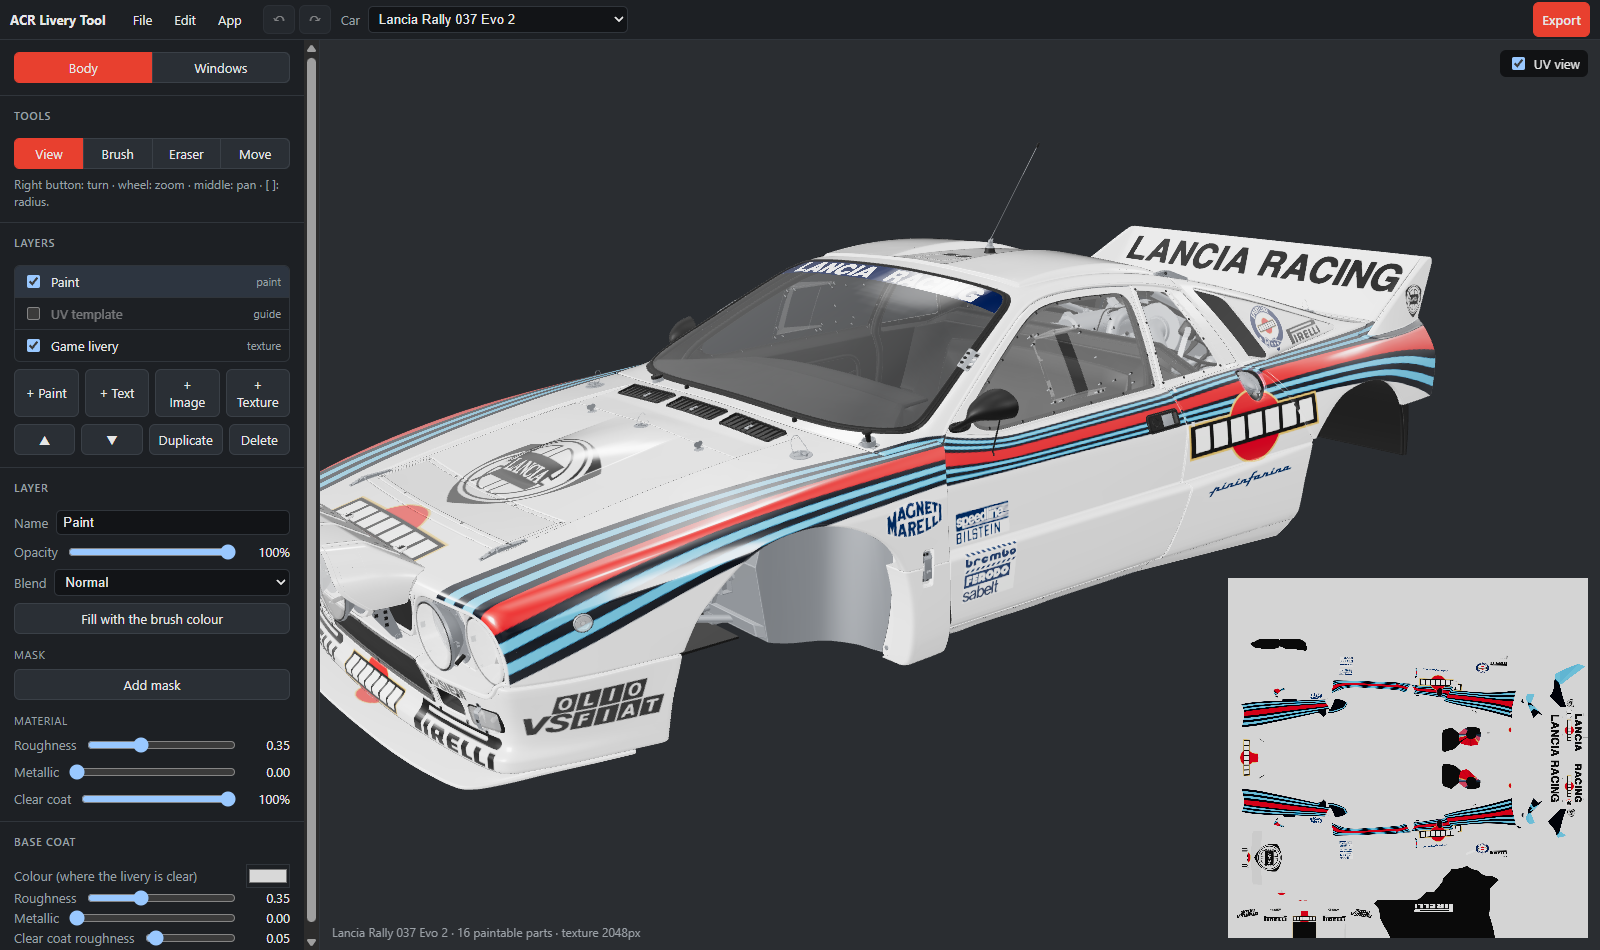
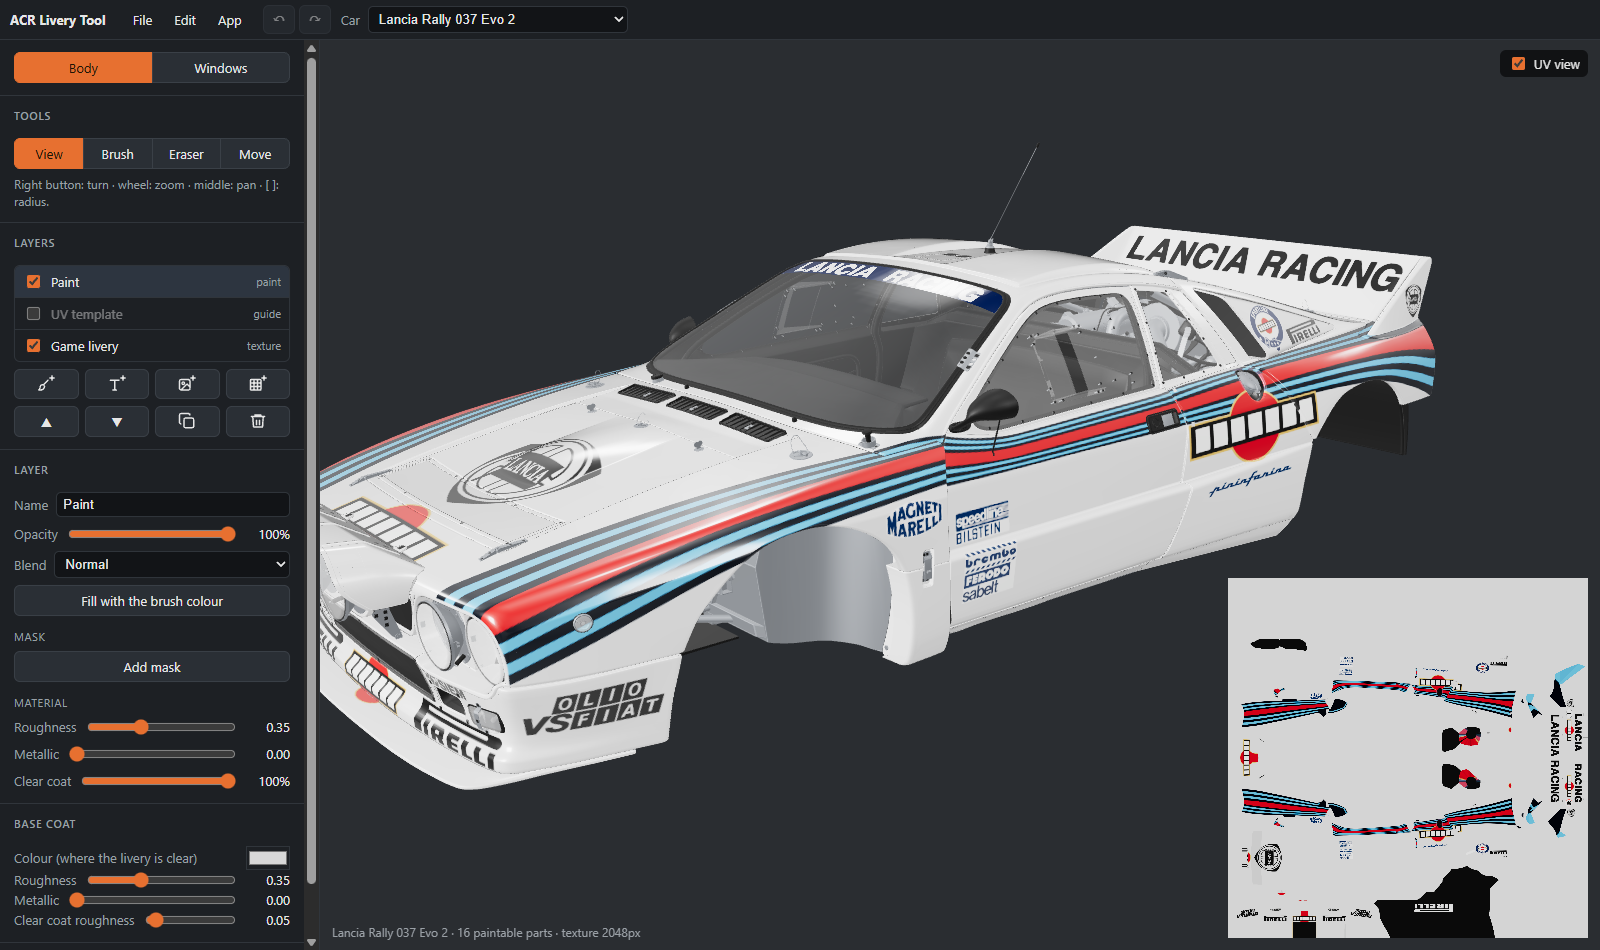
Docs for 0.4.0

diff --git a/README.md b/README.md
@@ -30,8 +30,9 @@ Requirements: Windows 10 or 11 (64-bit) and Assetto Corsa Rally installed throug
 ## First start: preparing the cars
 
 The app ships **no part of the game**. On first start it reads the cars from your own installation and keeps
-them in `%LOCALAPPDATA%\acr-livery-tool\cars` (about 5 minutes and 700 MB). Do it again after a game update
-from the car list in the top bar, *Prepare the cars again from the game*.
+them in `%LOCALAPPDATA%\acr-livery-tool\cars` (about 5 minutes and 700 MB). It finds the game in your Steam
+libraries; if it does not, *Choose the game folder…* picks it by hand. Do it again after a game update from the
+car list in the top bar, *Prepare the cars again from the game*.
 
 ## Using an exported livery
 
@@ -57,8 +58,10 @@ The app sends nothing about you anywhere. It connects only to:
 
 The ACRK Challenge links (*App* menu, after an export) only open that page in your browser when you click them.
 
-It reads the game's files where Steam installed them and writes only to its own folder, to the liveries
-folder above and to the project files you choose to save.
+It reads the game's files where Steam installed them, or in the folder you choose. It writes only to its own
+folders (`%LOCALAPPDATA%\acr-livery-tool` for the cars; `%APPDATA%\com.acrliverytool.app` and
+`%LOCALAPPDATA%\com.acrliverytool.app` for its settings: language, last car, game folder, the window's place), to
+the liveries folder above and to the project files you choose to save.
 
 ## Uninstall
 

diff --git a/README.it.md b/README.it.md
@@ -31,7 +31,8 @@ Serve Windows 10 o 11 (64 bit) e Assetto Corsa Rally installato con Steam.
 ## Primo avvio: preparare le auto
 
 L'app **non contiene niente del gioco**. Al primo avvio legge le auto dalla tua installazione e le tiene in
-`%LOCALAPPDATA%\acr-livery-tool\cars` (circa 5 minuti e 700 MB). Dopo un aggiornamento del gioco rifallo
+`%LOCALAPPDATA%\acr-livery-tool\cars` (circa 5 minuti e 700 MB). Trova il gioco nelle tue librerie di Steam;
+se non lo trova, *Scegli la cartella del gioco…* lo indica a mano. Dopo un aggiornamento del gioco rifallo
 dall'elenco delle auto nella barra in alto, *Prepara di nuovo le auto dal gioco*.
 
 ## Usare una livrea esportata
@@ -59,8 +60,10 @@ L'app non invia niente che ti riguardi. Si collega solo a:
 I collegamenti ad ACRK Challenge (menu *App*, dopo un'esportazione) aprono quella pagina nel browser solo quando ci
 clicchi.
 
-Legge i file del gioco dove li ha installati Steam e scrive solo nella sua cartella, nella cartella delle
-livree indicata sopra e nei file di progetto che scegli di salvare.
+Legge i file del gioco dove li ha installati Steam, o nella cartella che scegli. Scrive solo nelle sue cartelle
+(`%LOCALAPPDATA%\acr-livery-tool` per le auto; `%APPDATA%\com.acrliverytool.app` e
+`%LOCALAPPDATA%\com.acrliverytool.app` per le impostazioni: lingua, ultima auto, cartella del gioco, posizione
+della finestra), nella cartella delle livree indicata sopra e nei file di progetto che scegli di salvare.
 
 ## Disinstallazione
 

diff --git a/CHANGELOG.it.md b/CHANGELOG.it.md
@@ -1,5 +1,19 @@
 # Novità
 
+## [0.4.0] - 2026-10-16
+
+Un aspetto nuovo, la cartella del gioco si può scegliere a mano e la finestra si apre dove l'avevi lasciata.
+
+### Novità
+- *Preparare le auto* mostra la cartella del gioco da cui legge, e *Scegli la cartella del gioco…* ne sceglie
+  un'altra, per esempio quando il gioco non si trova nelle tue librerie di Steam. L'app ricorda la scelta.
+- La finestra si apre dove l'avevi lasciata, con la stessa dimensione, e massimizzata se lo era.
+
+### Modifiche
+- Un nuovo colore arancione per i pulsanti attivi e gli slider.
+- I pulsanti dei livelli sono icone: + Pittura, + Testo, + Immagine, + Texture, Duplica ed Elimina. Il loro
+  nome compare passandoci sopra con il mouse.
+
 ## [0.3.0] - 2026-10-15
 
 Il pulsante di esportazione passa nella barra laterale, e l'app indica dove correre con la tua livrea.

diff --git a/CHANGELOG.md b/CHANGELOG.md
@@ -1,5 +1,19 @@
 # Changelog
 
+## [0.4.0] - 2026-10-16
+
+A new look, the game's folder can be chosen by hand, and the window opens where you left it.
+
+### New
+- *Preparing the cars* shows the game folder it reads from, and *Choose the game folder…* picks another one,
+  for example when the game is not found in your Steam libraries. The app remembers your choice.
+- The window opens where you left it, with the same size, and maximized if it was.
+
+### Changed
+- A new orange colour for the active buttons and the sliders.
+- The layer buttons are icons: + Paint, + Text, + Image, + Texture, Duplicate and Delete. Their names show
+  when you hover them.
+
 ## [0.3.0] - 2026-10-15
 
 The export button moves to the sidebar, and the app shows where to race your livery.
